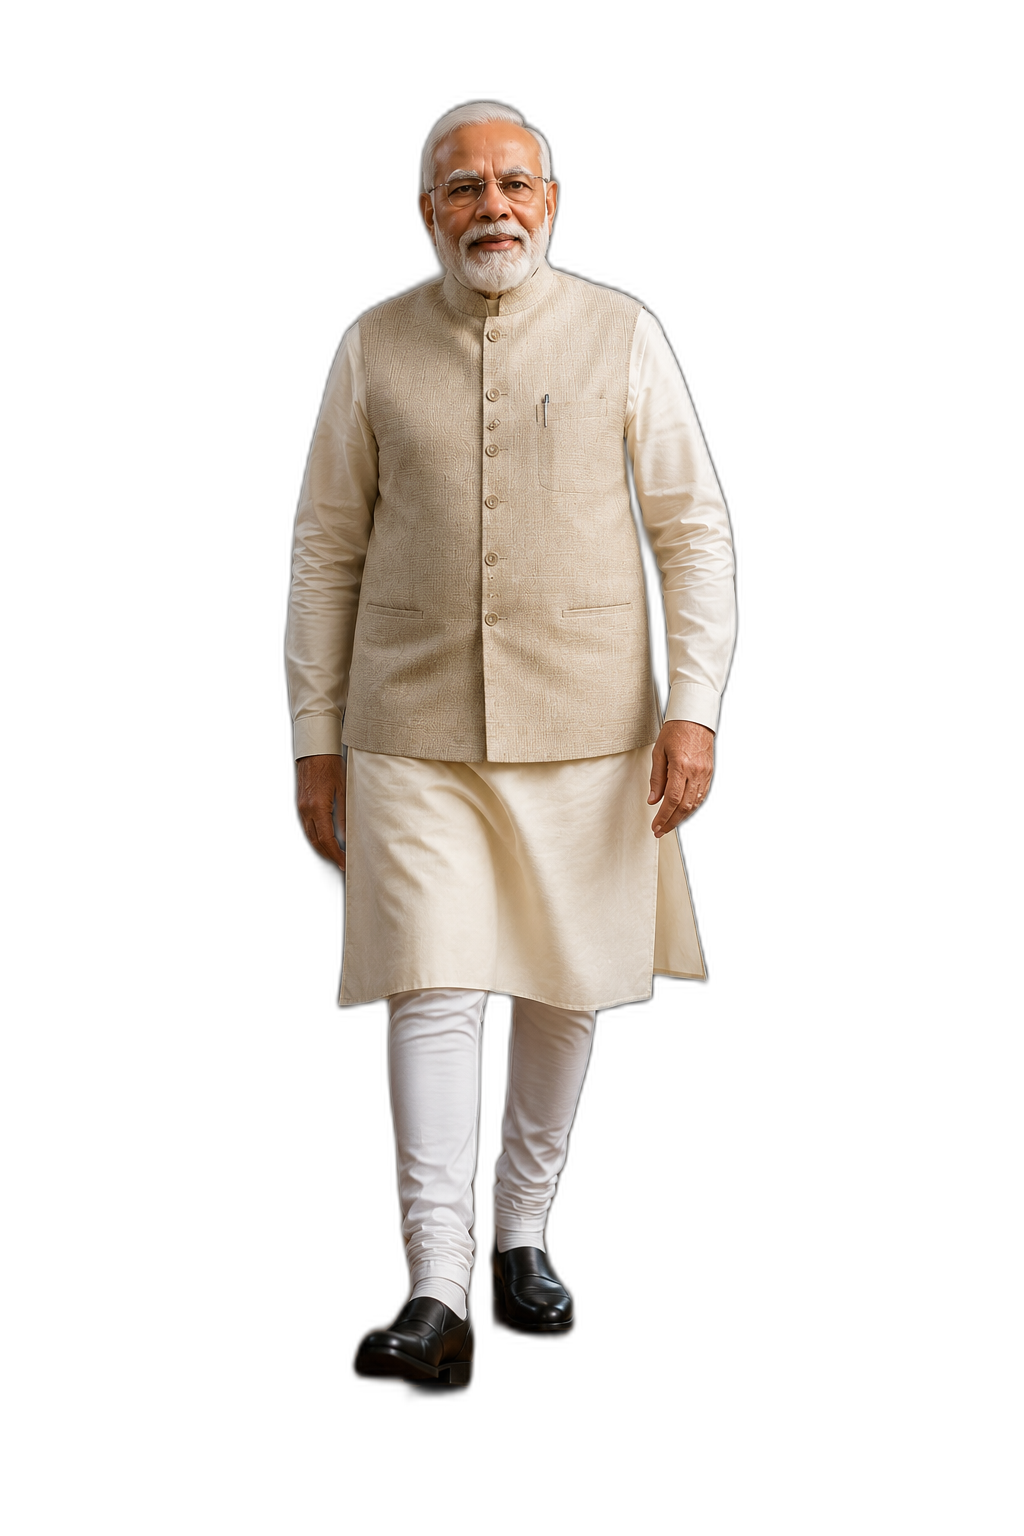
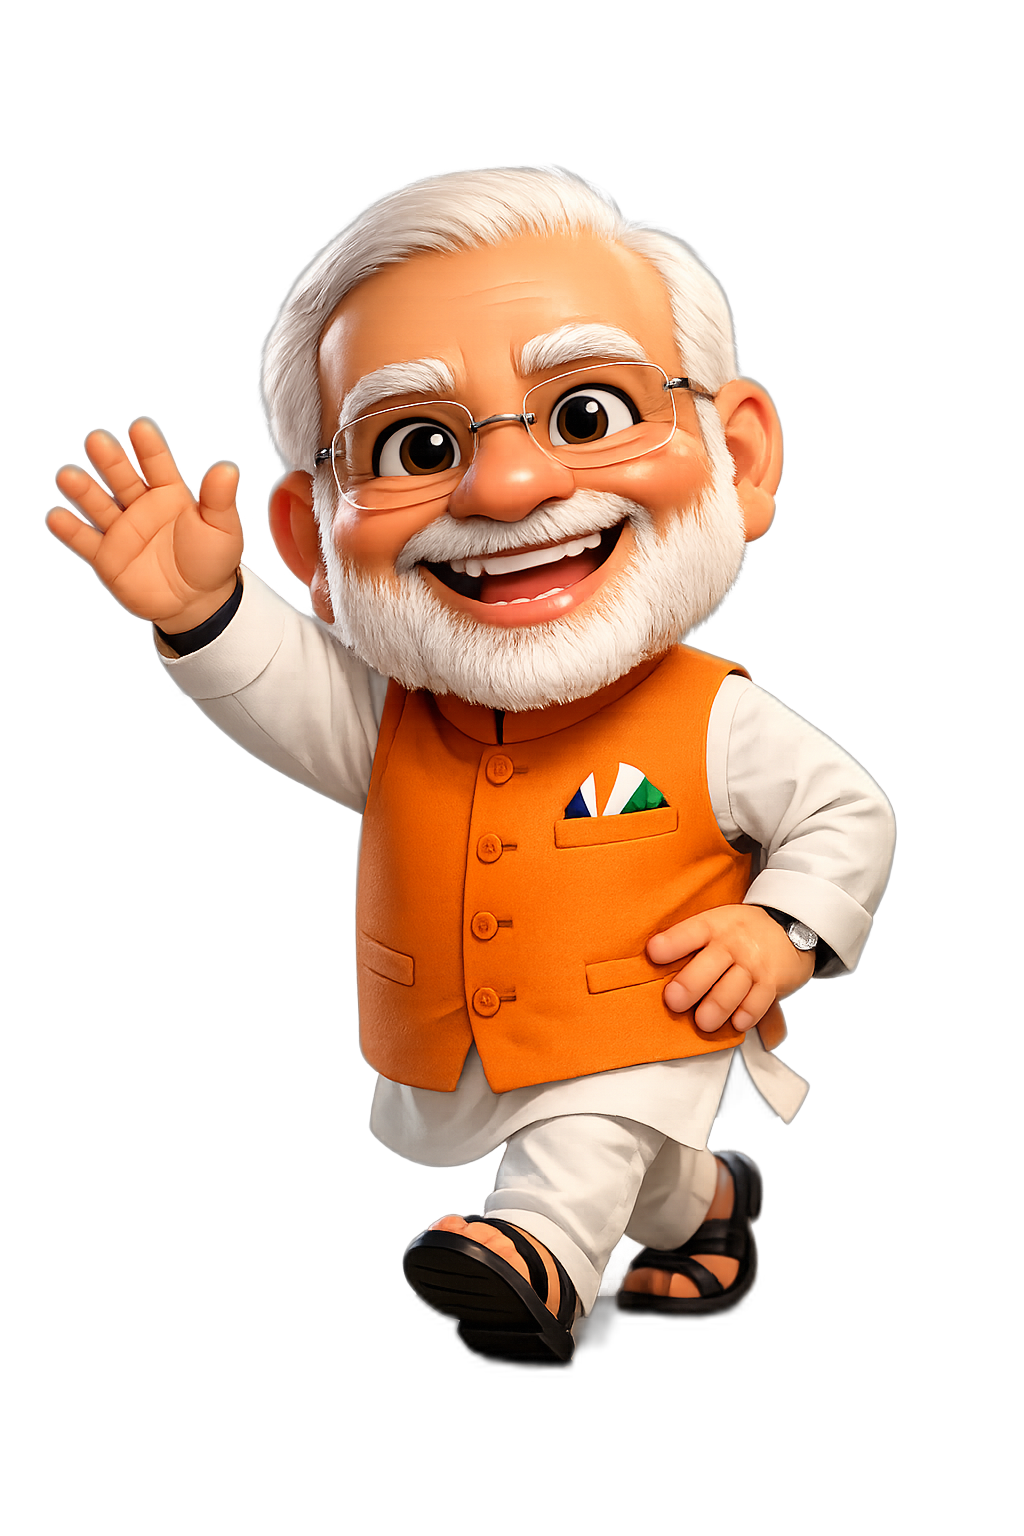
Rename modi-2-old.png to modi.png as primary character image

diff --git a/main.py b/main.py
@@ -177,7 +177,7 @@ class Sprite:
         if not candidates:
             return
 
-        preferred = ['modi-2-old.png', 'modi.png', 'character.png', 'sprite.png']
+        preferred = ['modi.png', 'character.png', 'sprite.png']
         chosen = next((f for f in preferred if f in candidates), candidates[0])
         path   = os.path.join(ASSETS_DIR, chosen)
 
